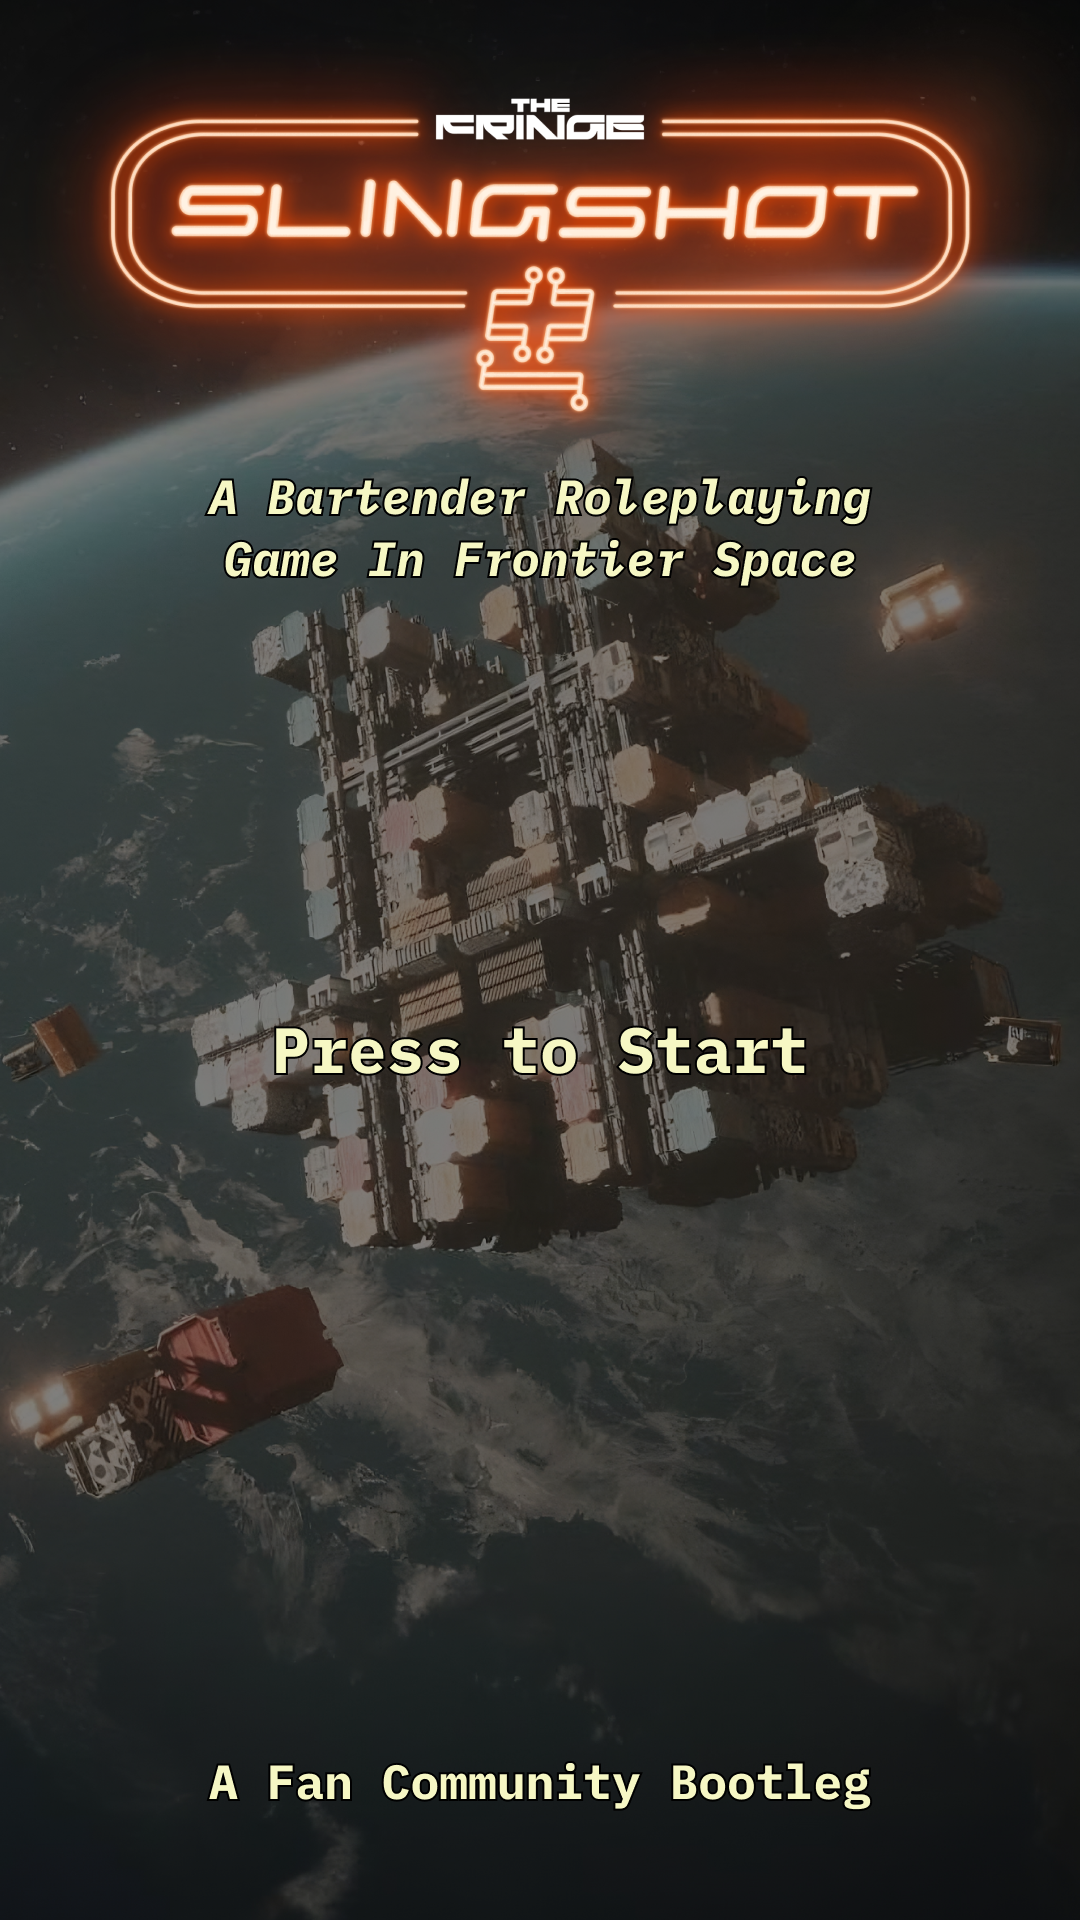
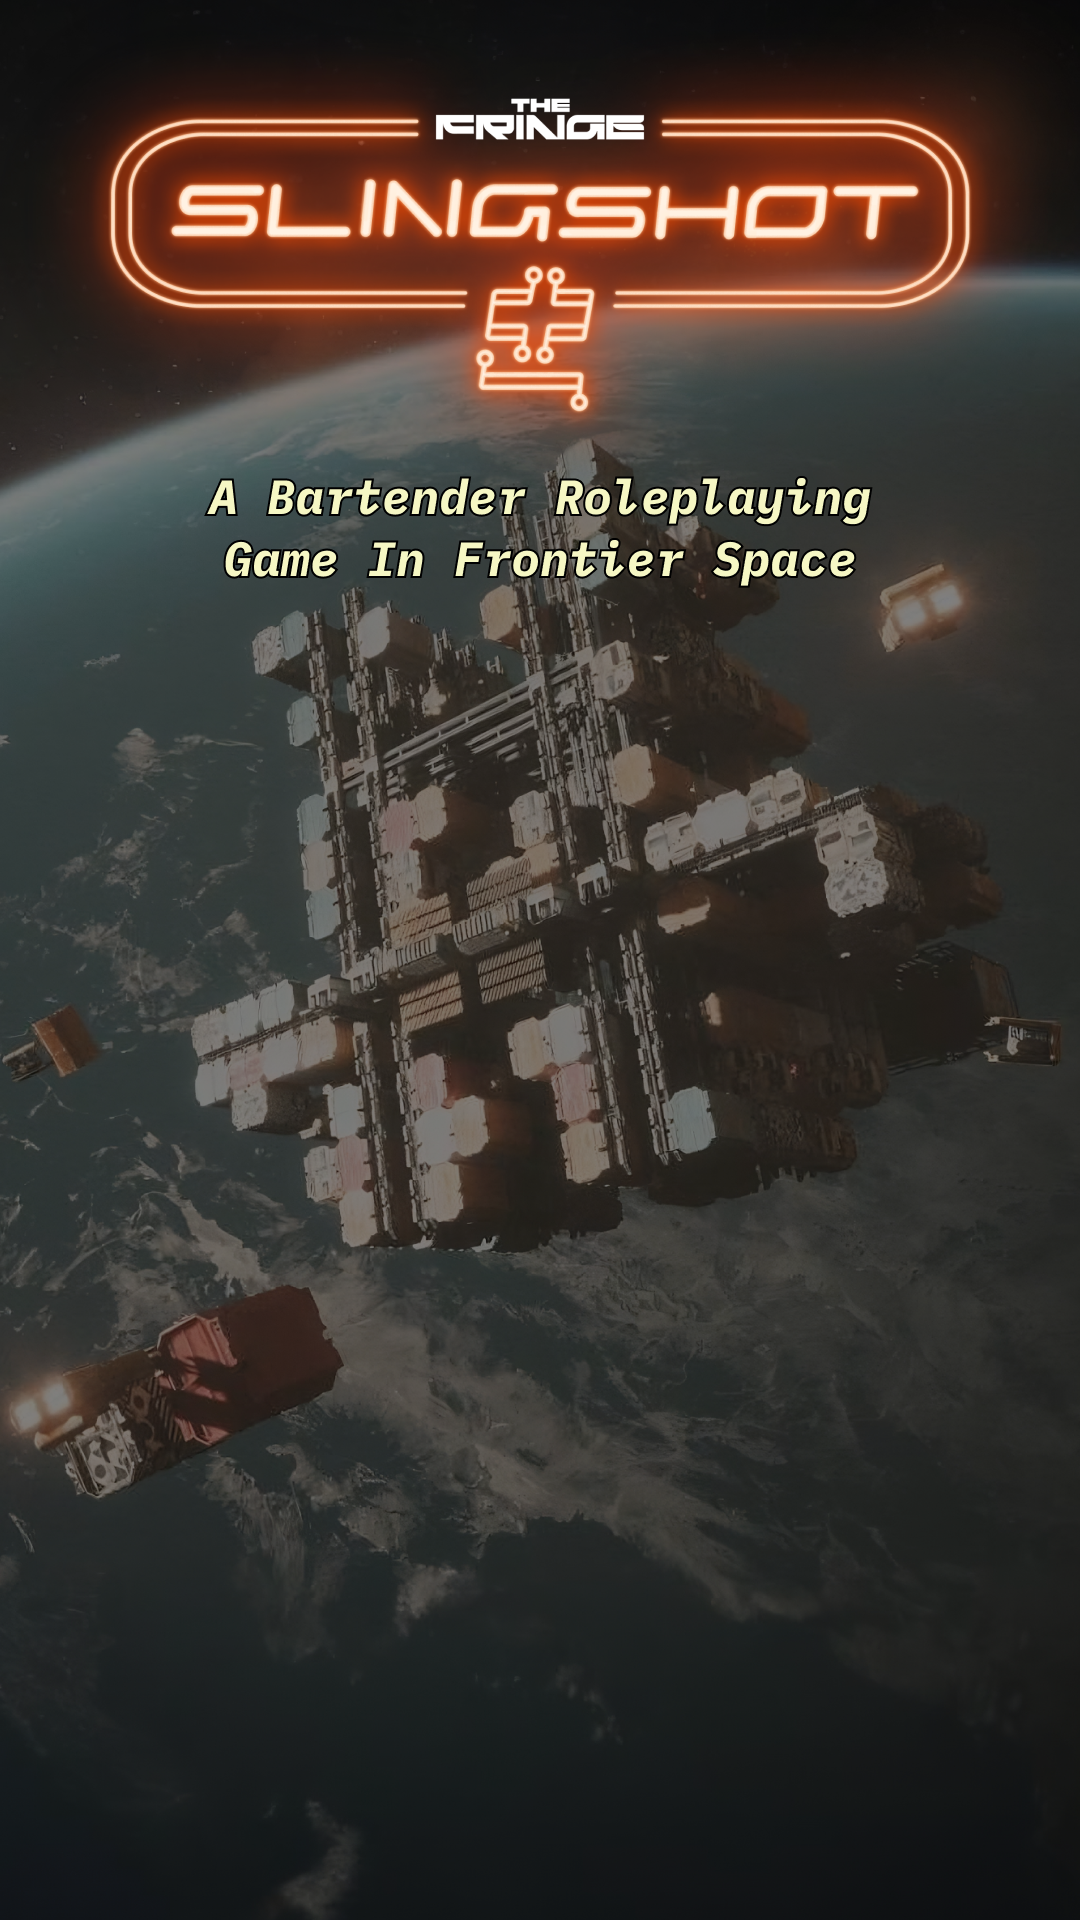
credits

diff --git a/src/App.css b/src/App.css
@@ -92,19 +92,47 @@ button:hover {
 }
 
 .Home {
-  background-color: rgb(20, 20, 26);
-  color: rgb(202, 215, 101);
+  background-image: url('/img/home-page/ss1.png');
+}
+
+.Credits {
+  background-image: url('/img/home-page/credits.png');
+}
+
+.Page {
+  display: flex;
+  flex-direction: column;
+  justify-content: space-between;
+  align-items: center;
+  background-size: cover;
+  background-position: center;
+  background-repeat: no-repeat;
   height: 100%;
 }
 
-.Home p {
-  text-align: center;
+.Page button {
+  border: none;
+  background: none;
 }
 
-.Home .chapters {
-  display: flex;
-  flex-direction: column;
-  padding: 24px;
+.Page button:hover {
+  border: none;
+  background: none;
+  color: rgb(240, 198, 81);
+}
+
+.Page button:active {
+  border: none;
+  background: none;
+}
+
+.Page .center-button {
+  margin-top: 320px;
+  margin-bottom: auto;
+}
+
+.Page .bottom-button {
+  margin-bottom: 20px;
 }
 
 a {

diff --git a/src/components/Home.jsx b/src/components/Home.jsx
@@ -4,12 +4,9 @@ import { useNavigate } from 'react-router-dom';
 function Home() {
   const navigate = useNavigate();
   return (
-    <div className="Home">
-      <img
-        src="/img/home-page/ss1.png"
-        style={{ width: '100%', height: 'auto' }}
-        onClick={() => navigate('/story/chapter-one')}
-        />
+    <div className="Home Page">
+      <button className="center-button" onClick={() => navigate('/story/chapter-one')}>Press to Start</button>
+      <button className="bottom-button" onClick={() => navigate('/credits')}>Credits</button>
     </div>
   );
 }

diff --git a/src/App.jsx b/src/App.jsx
@@ -2,6 +2,7 @@ import './App.css'
 import React from 'react';
 import { BrowserRouter as Router, Route, Routes } from 'react-router-dom';
 import Home from './components/Home';
+import Credits from './components/Credits';
 import Story from './components/Story';
 
 const App = () => {
@@ -12,6 +13,7 @@ const App = () => {
           <Routes>
             <Route path="/" element={<Home />} />
             <Route path="/story/:storyId" element={<Story />} />
+            <Route path="/credits" element={<Credits />} />
           </Routes>
         </Router>
       </div>

diff --git a/src/components/Credits.jsx b/src/components/Credits.jsx
@@ -1,0 +1,14 @@
+import React from 'react';
+import { useNavigate } from 'react-router-dom';
+
+function Credits() {
+  const navigate = useNavigate();
+  return (
+    <div className="Credits Page">
+      <span></span>
+      <button className="bottom-button" onClick={() => navigate('/')}>Back</button>
+    </div>
+  );
+}
+
+export default Credits;
